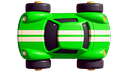
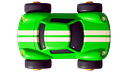
Fix car sprites facing backwards
The chosen car (B2) faces down: windscreen and round headlights at the
bottom, amber tail lights at the top. It was recorded as facing up, so
every car sprite was rotated 180 degrees from its direction of travel
and the controls looked inverted. The key bindings and physics were
correct.

- asset_manifest: car_red facing "down"; all variants inherit it.
- Rocket card regenerated (seed 14): its boosters had been placed on the
  car's nose by an instruction naming the wrong end.
- card_retry.py reads facing from the manifest instead of assuming up.
- pipeline.json prompt lesson: judge facing by windscreen and headlights.

diff --git a/tools/comfy/card_retry.py b/tools/comfy/card_retry.py
@@ -14,7 +14,7 @@ from PIL import Image
 import postprocess as pp
 import recipe
 from comfy_client import ComfyClient
-from generate_assets import CANDIDATES, MASTERS, SHEETS
+from generate_assets import CANDIDATES, MASTERS, SHEETS, TO_PLUS_X, all_entries, facing_of, load_manifest
 
 SEEDS = [12, 13, 14]
 RETRIES = {
@@ -22,6 +22,9 @@ RETRIES = {
                     "sideways. Keep the car exactly the same, pointing straight up, the top-down view and the plain white background."),
     "card_kart": ("Turn this car into a small open-top red go-kart seen from directly above, pointing straight up, "
                   "with a driver wearing a red helmet in the seat. Keep the plain white background."),
+    "card_rocket": ("Add two big rocket boosters with orange flames at the back of the car, which is the top of the "
+                    "picture, with the flames pointing up. Keep the red paint, the white stripes, the top-down view "
+                    "and the plain white background."),
     "card_banana": ("Repaint this car bright banana yellow with just a few small brown marks at the front and back like "
                     "the tips of a banana, and put a peeled banana on the roof. Keep the shape, the top-down view and the plain white background."),
 }
@@ -32,6 +35,8 @@ def main() -> None:
     client.check_alive()
     uploaded = client.upload_image((MASTERS / "car_red_raw.png").read_bytes(), "vr_src_car_red.png")
     CANDIDATES.mkdir(parents=True, exist_ok=True)
+    manifest = load_manifest()
+    turn = TO_PLUS_X[facing_of(all_entries(manifest)["car_red"], all_entries(manifest))]
     cells = []
     for card, instruction in RETRIES.items():
         for seed in SEEDS:
@@ -41,7 +46,7 @@ def main() -> None:
                 Image.open(io.BytesIO(images["save_cutout"][0])).save(path)
                 Image.open(io.BytesIO(images["save"][0])).save(CANDIDATES / f"{card}_s{seed}_raw.png")
                 print(f"  {card} seed {seed}", flush=True)
-            cells.append((Image.open(path).convert("RGBA").rotate(-90, expand=True), f"{card[5:]} seed {seed}"))
+            cells.append((Image.open(path).convert("RGBA").rotate(turn, expand=True), f"{card[5:]} seed {seed}"))
     pp.contact_sheet(cells, len(SEEDS), (312, 190), "CARD RETRIES (facing +X, as on the card)", checker=True) \
         .save(SHEETS / "cards_retry.png")
     print("sheet: docs/mockups/candidates/cards_retry.png")
